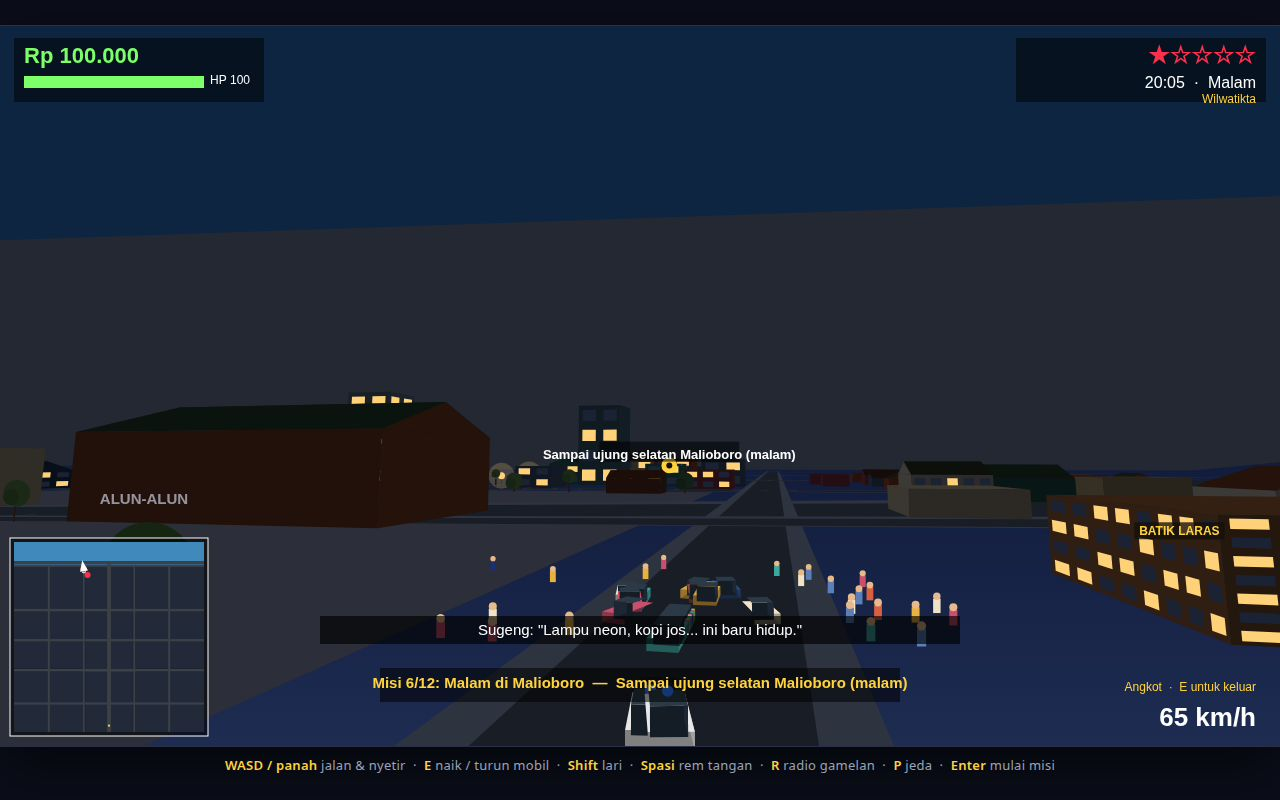
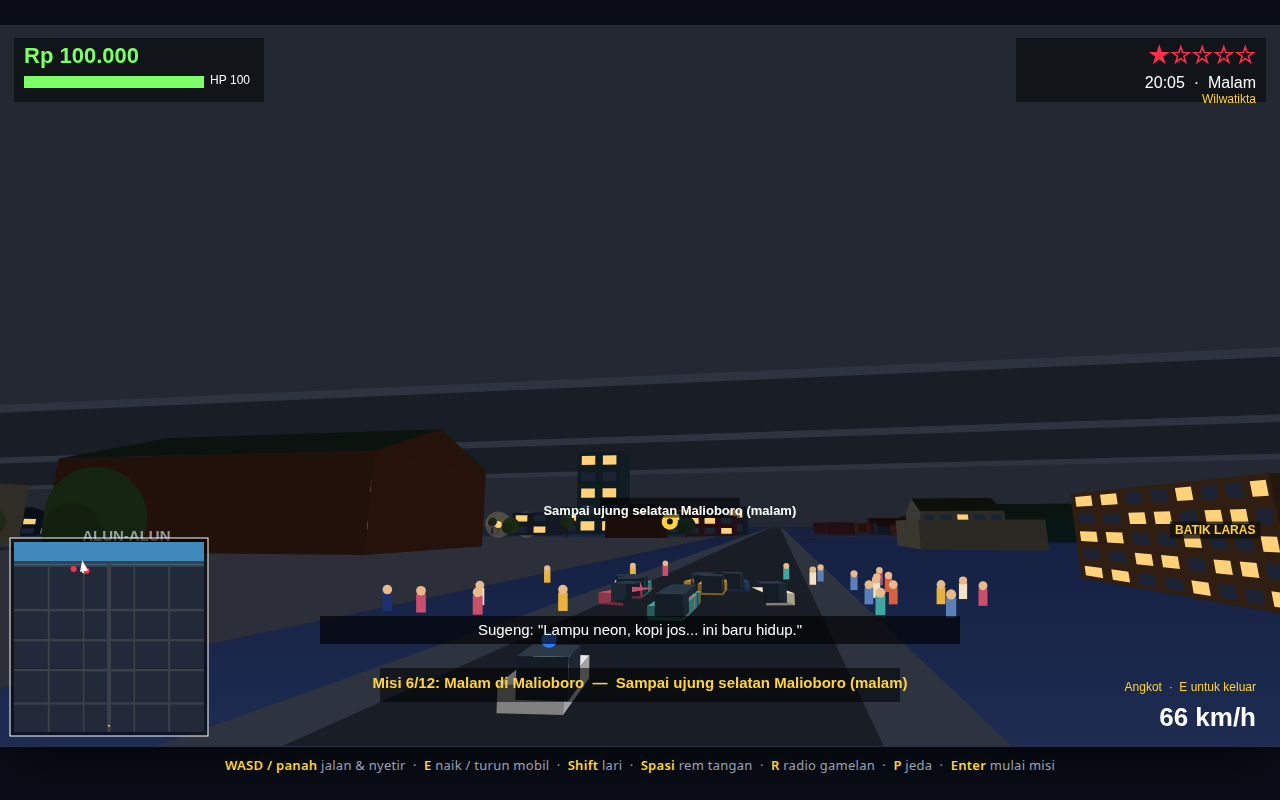
v22: fix camera defaults (low + close, city fills frame) + retake screenshots

diff --git a/game/js/game.js b/game/js/game.js
@@ -126,7 +126,7 @@ const G = {
   money: 100000, missionIndex: 0, stageIndex: 0, stageTimer: 0, stageT: 0,
   wanted: 0, wantedHeat: 0, hideTimer: 0, bustedTimer: 0,
   health: 100, score: 0,
-  keys: {}, camYaw: Math.PI, camPitch: 0.32, camDist: 13, orbit: 0,
+  keys: {}, camYaw: Math.PI, camPitch: 0.42, camDist: 9, orbit: 0,
   mouseDown: false, lastMX: 0, lastMY: 0,
   subtitle: '', subtitleT: 0, lineIndex: 0, lineT: 0,
   message: '', messageT: 0, passedReward: 0,
@@ -633,12 +633,12 @@ function updateCamera(dt) {
   const dist = G.camDist;
   G.cam.x = p.x - Math.sin(cy) * dist;
   G.cam.z = p.z - Math.cos(cy) * dist;
-  G.cam.y = 6 + dist * 0.42;
+  G.cam.y = 2.5 + dist * 0.3;
   G.cam.yaw = cy;
   G.cam.pitch = G.camPitch;
   if (G.state === 'title') {
     const a = G.time * 0.05;
-    G.cam.x = Math.sin(a) * 320; G.cam.z = -315 + Math.cos(a) * 320; G.cam.y = 90; G.cam.yaw = Math.atan2(-G.cam.x, -315 - G.cam.z); G.cam.pitch = 0.25;
+    G.cam.x = Math.sin(a) * 170; G.cam.z = -315 + Math.cos(a) * 170; G.cam.y = 45; G.cam.yaw = Math.atan2(-G.cam.x, -315 - G.cam.z); G.cam.pitch = 0.5;
   }
 }
 
